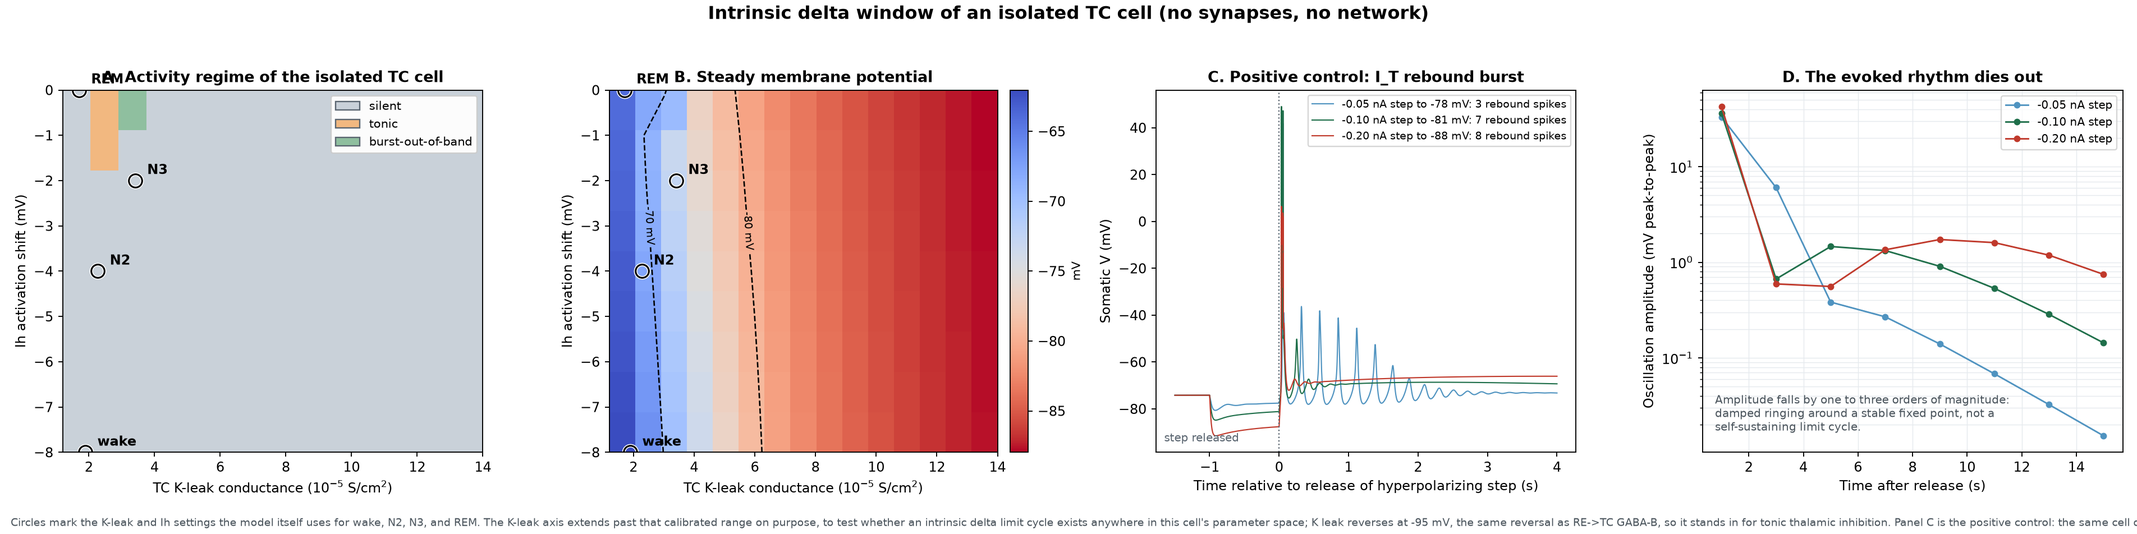
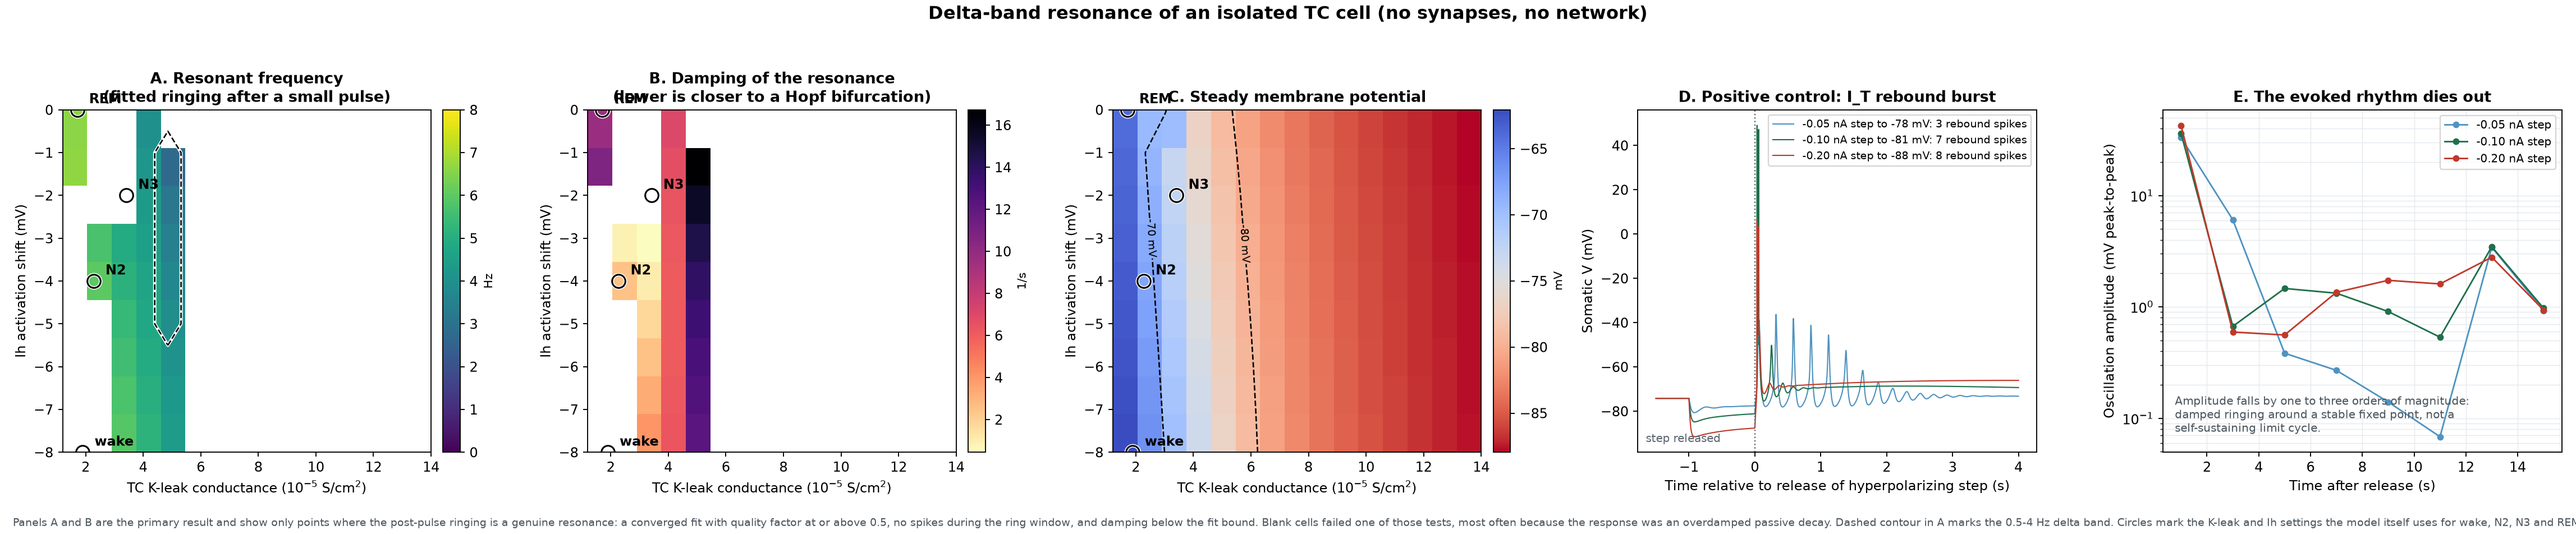
Resonance map: 27 genuine resonances, least damped Q=34.7 at 4.93 Hz
Rescoring the same 135-point grid on resonance rather than spontaneous
oscillation finds what the spontaneous scan could not see.

  genuine resonances     27 of 135
  frequency range        2.76-6.67 Hz (median 4.80)
  damping range          0.45-16.73 /s
  quality factor         0.5-34.7

The least-damped point is 4.93 Hz with damping 0.45 /s and Q 34.7, at K-leak
3.03e-5 S/cm2 and Ih shift -3.0 mV, resting at -72.2 mV. The ringing there
persists about two seconds, roughly ten cycles: a lightly damped resonator
close to a Hopf bifurcation. The previous scan classified that same point as
silent. In the model's own coordinates it sits between N2 and N3, so it is not
an exotic corner, and a thalamic resonance near 5 Hz is plausibly what sets
this model's 6.6-6.9 Hz spindle frequency.

The trade-off along this slice is the limiting result: only 5 of the 27
resonances fall in 0.5-4 Hz, and the least damped of those has Q 0.9. High-Q
at 5 Hz or low-Q at 3-4 Hz, but not high-Q in the delta band. Reaching lightly
damped delta needs g_T, g_h and the calcium axes, i.e. Phase 1 map 3.

Damping rises steeply with hyperpolarization (2.33 /s at -74 mV against
15.8 /s at -80 mV), so the direction toward a Hopf bifurcation is *less*
hyperpolarization. The earlier sweep pushed the wrong way on this axis.

Rerun reproduces the numbers exactly.

diff --git a/tc_delta_map.py b/tc_delta_map.py
@@ -491,7 +491,7 @@ def make_figure(
         )
         ax.set_xlabel(r"TC K-leak conductance ($10^{-5}$ S/cm$^2$)")
         ax.set_ylabel("Ih activation shift (mV)")
-        ax.set_title(title, fontsize=11.5, fontweight="bold")
+        ax.set_title(title, fontsize=11.5, fontweight="bold", pad=14)
         bar = fig.colorbar(image, ax=ax, fraction=0.046, pad=0.03)
         bar.set_label(label_txt, fontsize=9)
         mark_reference(ax)
@@ -583,7 +583,7 @@ def make_figure(
         )
 
     fig.suptitle(
-        "Intrinsic delta window of an isolated TC cell "
+        "Delta-band resonance of an isolated TC cell "
         "(no synapses, no network)",
         fontsize=13.5,
         fontweight="bold",
@@ -592,15 +592,16 @@ def make_figure(
     fig.text(
         0.005,
         0.015,
-        "Circles mark the K-leak and Ih settings the model itself uses for "
-        "wake, N2, N3, and REM. The K-leak axis extends past that calibrated "
-        "range on purpose, to test whether an intrinsic delta limit cycle "
-        "exists anywhere in this cell's parameter space; K leak reverses at "
-        "-95 mV, the same reversal as RE->TC GABA-B, so it stands in for tonic "
-        "thalamic inhibition. Panel C is the positive control: the same cell "
-        "does fire a low-threshold rebound burst when released from a "
-        "hyperpolarizing step, so a null result in A is a property of the "
-        "model rather than a broken I_T current.",
+        "Panels A and B are the primary result and show only points where the "
+        "post-pulse ringing is a genuine resonance: a converged fit with "
+        "quality factor at or above 0.5, no spikes during the ring window, and "
+        "damping below the fit bound. Blank cells failed one of those tests, "
+        "most often because the response was an overdamped passive decay. "
+        "Dashed contour in A marks the 0.5-4 Hz delta band. Circles mark the "
+        "K-leak and Ih settings the model itself uses for wake, N2, N3 and "
+        "REM. Panels D and E are the earlier positive control, retained "
+        "because they establish that I_T works and that the evoked rhythm is "
+        "damped rather than self-sustaining.",
         fontsize=8.2,
         color="#4a545c",
     )

diff --git a/docs/FINDINGS.md b/docs/FINDINGS.md
@@ -82,6 +82,64 @@ The sweep should therefore be reopened over the larger parameter set, and
 scored on resonant frequency and damping rather than on presence or absence of
 spontaneous bursting.
 
+### Rescored on resonance: the cell is a strong resonator
+
+Rerunning the same 135-point grid with a small calibrated pulse at each point
+and fitting the ringing to a damped sinusoid changes the picture completely.
+The map is `docs/figures/tc_delta_map.png`, data in
+`docs/metrics/tc_delta_map.csv`.
+
+| | |
+|---|---:|
+| Genuine resonances (converged fit, Q >= 0.5, spike-free, off the damping bound) | 27 of 135 |
+| Resonant frequency range | 2.76-6.67 Hz (median 4.80) |
+| Damping range | 0.45-16.73 /s |
+| Quality factor range | 0.5-34.7 |
+
+**The least-damped point is a strong resonance: 4.93 Hz, damping 0.45 /s,
+Q = 34.7**, at K-leak 3.03e-5 S/cm2 and I_h shift -3.0 mV, resting at
+-72.2 mV. A damping constant of 0.45 /s means the ringing persists for roughly
+two seconds, about ten cycles. That is a lightly damped resonator sitting close
+to a Hopf bifurcation, and it is exactly the object the review predicted would
+be there. The previous scan classified this same point as "silent".
+
+Two things about where it sits matter. First, in the model's own coordinates
+it falls between N2 and N3, close to the calibrated N3 setting, so this is not
+an exotic corner of parameter space. Second, a thalamic resonance near 5 Hz is
+plausibly what sets this model's ~6.6-6.9 Hz spindle frequency, which ties
+this result to the port-timing finding in section 3.
+
+**The catch is a trade-off along this slice.** Only 5 of the 27 resonances sit
+in the 0.5-4 Hz delta band, and the least damped of those has Q = 0.9, meaning
+it barely completes a cycle. On this two-parameter plane you can have a
+high-Q resonance at 5 Hz or a low-Q one at 3-4 Hz, but not a high-Q one in the
+delta band. Reaching lightly damped delta requires the other axes -- g_T, g_h,
+calcium handling and the calcium-dependent regulation of I_h -- which is
+exactly Phase 1 map 3 of [RESEARCH_PLAN.md](RESEARCH_PLAN.md).
+
+One directional result worth recording because it contradicts what we assumed:
+**damping rises steeply with further hyperpolarization** (2.33 /s at -74 mV
+against 15.8 /s at -80 mV). The route toward a Hopf bifurcation is therefore
+*less* hyperpolarization, not more. The earlier sweep had been pushing in the
+wrong direction on this axis too.
+
+Three measurement details cost real effort and are worth knowing before
+trusting any similar analysis:
+
+- A good fit is not a resonance. Overdamped responses fit well and return
+  meaningless sub-hertz frequencies, because the fitter can match a passive
+  decay by making the sinusoid vanish before one cycle completes.
+- The probe must be long enough to engage I_h, whose gating runs over hundreds
+  of milliseconds. A 200 ms pulse only charges the passive membrane, whose
+  time constant is around 20 ms.
+- The probe must not evoke a burst, or the fit describes nonlinear dynamics.
+  At N2-level K-leak a small probe triggered 57-68 spikes and the fit returned
+  an r-squared of 0.08.
+
+The probe was calibrated empirically across amplitude and duration:
+-0.01 nA for 500 ms gives spike-free responses with r-squared around 0.94
+throughout the hyperpolarized range.
+
 Reproduce with `.venv/bin/nrniv -python tc_delta_map.py`; figure at
 `docs/figures/tc_delta_map.png`, data at `output/metrics/tc_delta_map.csv`.
 

diff --git a/README.md b/README.md
@@ -12,10 +12,15 @@ shaped the plan.
 
 Three results change the direction of this project:
 
-1. **An isolated relay cell has no intrinsic delta limit cycle** over the
-   K-leak by I_h-shift plane (135 points, resting potentials -62 to -88 mV),
-   with a passing positive control. The damped ringing it does show may
-   indicate a near-Hopf resonance, which is now a lead rather than a dead end.
+1. **An isolated relay cell is a strong delta-band resonator, though it has no
+   intrinsic limit cycle.** Over the K-leak by I_h-shift plane (135 points,
+   resting potentials -62 to -88 mV) nothing oscillates spontaneously, but
+   rescoring the same grid on resonance finds 27 genuine resonances, the least
+   damped at **4.93 Hz with Q = 34.7** close to the model's own N3 setting.
+   Only 5 fall in the 0.5-4 Hz delta band and those are heavily damped, so
+   reaching lightly damped delta needs the g_T, g_h and calcium axes. Damping
+   rises with hyperpolarization, so the route toward a Hopf bifurcation is
+   *less* hyperpolarization, not more.
 2. **The search axis used so far runs away from the target.** Reducing
    cortical recurrence from N3 makes activity *less* rhythmic than N3, while
    GRDA is defined by being more rhythmic.
